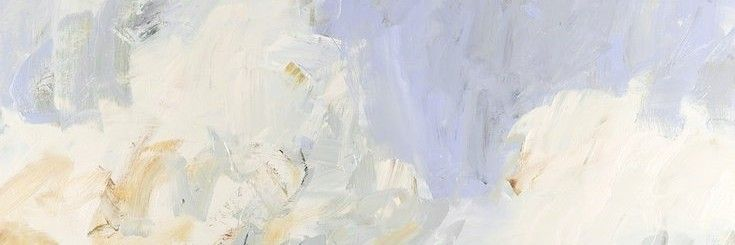
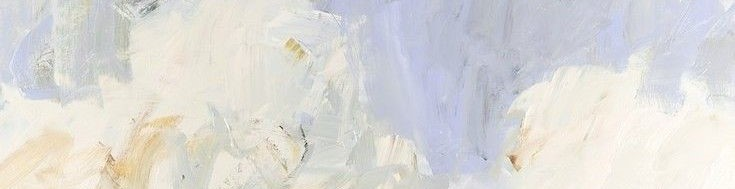
Actualización de README, edición de imagen

diff --git a/README.md b/README.md
@@ -1,9 +1,9 @@
-<div style="width:100%;height:0;padding-bottom:56%;position:relative;"><iframe src="https://giphy.com/embed/L1R1tvI9svkIWwpVYr" width="100%" height="100%" style="position:absolute" frameBorder="0" class="giphy-embed" allowFullScreen></iframe></div>
-
 <h1 align="center">¡Hola! Soy Noemi </h1>
-<h3 align="center">Una apasionada Desarrolladora de Software en Perú</h3>
+<h2 align="center">Una apasionada Desarrolladora de Software en Perú</h3>
 
-  Actualmente estoy aprendiendo 🌱:
+<img src="img/portada.jpg" />
+
+###  Actualmente estoy aprendiendo 🌱:
 
 <p align="center">
   <!-- REACT -->
@@ -14,7 +14,7 @@
   <img src="https://www.vectorlogo.zone/logos/tailwindcss/tailwindcss-icon.svg" alt="tailwind" height="40" >
 </p>
 
-<h3 align="left">Lenguajes:</h3>
+### Lenguajes
 <p align="center"> 
   <!--   HTML -->
   <a href="https://developer.mozilla.org/en-US/docs/Web/HTML" target="_blank" rel="noreferrer"> <img src="https://cdn.jsdelivr.net/gh/devicons/devicon/icons/html5/html5-original.svg" alt="html5" height="40"/> </a>
@@ -42,7 +42,7 @@
   <!--   <a href="https://dart.dev" target="_blank" rel="noreferrer"> <img src="https://www.vectorlogo.zone/logos/dartlang/dartlang-icon.svg" alt="dart" height="40"/> </a> -->
 </p>
 
-<h3 align="left">Habilidades:</h3>
+### Habilidades
 <p align="center">
   <!--   ILLUSTRATOR -->
   <img src="https://www.vectorlogo.zone/logos/adobe_illustrator/adobe_illustrator-icon.svg" alt="illustrator" width="40" height="40"/>
@@ -56,4 +56,6 @@
   <!--   <a href="https://www.linux.org/" target="_blank" rel="noreferrer"> <img src="https://raw.githubusercontent.com/devicons/devicon/master/icons/linux/linux-original.svg" alt="linux" width="40" height="40"/> </a> -->
 </p>
 
-<img src="img/portada.jpg" />
+<div align="center">
+  <img src="https://media.giphy.com/media/L1R1tvI9svkIWwpVYr/giphy.gif" width="70%">
+</div>
